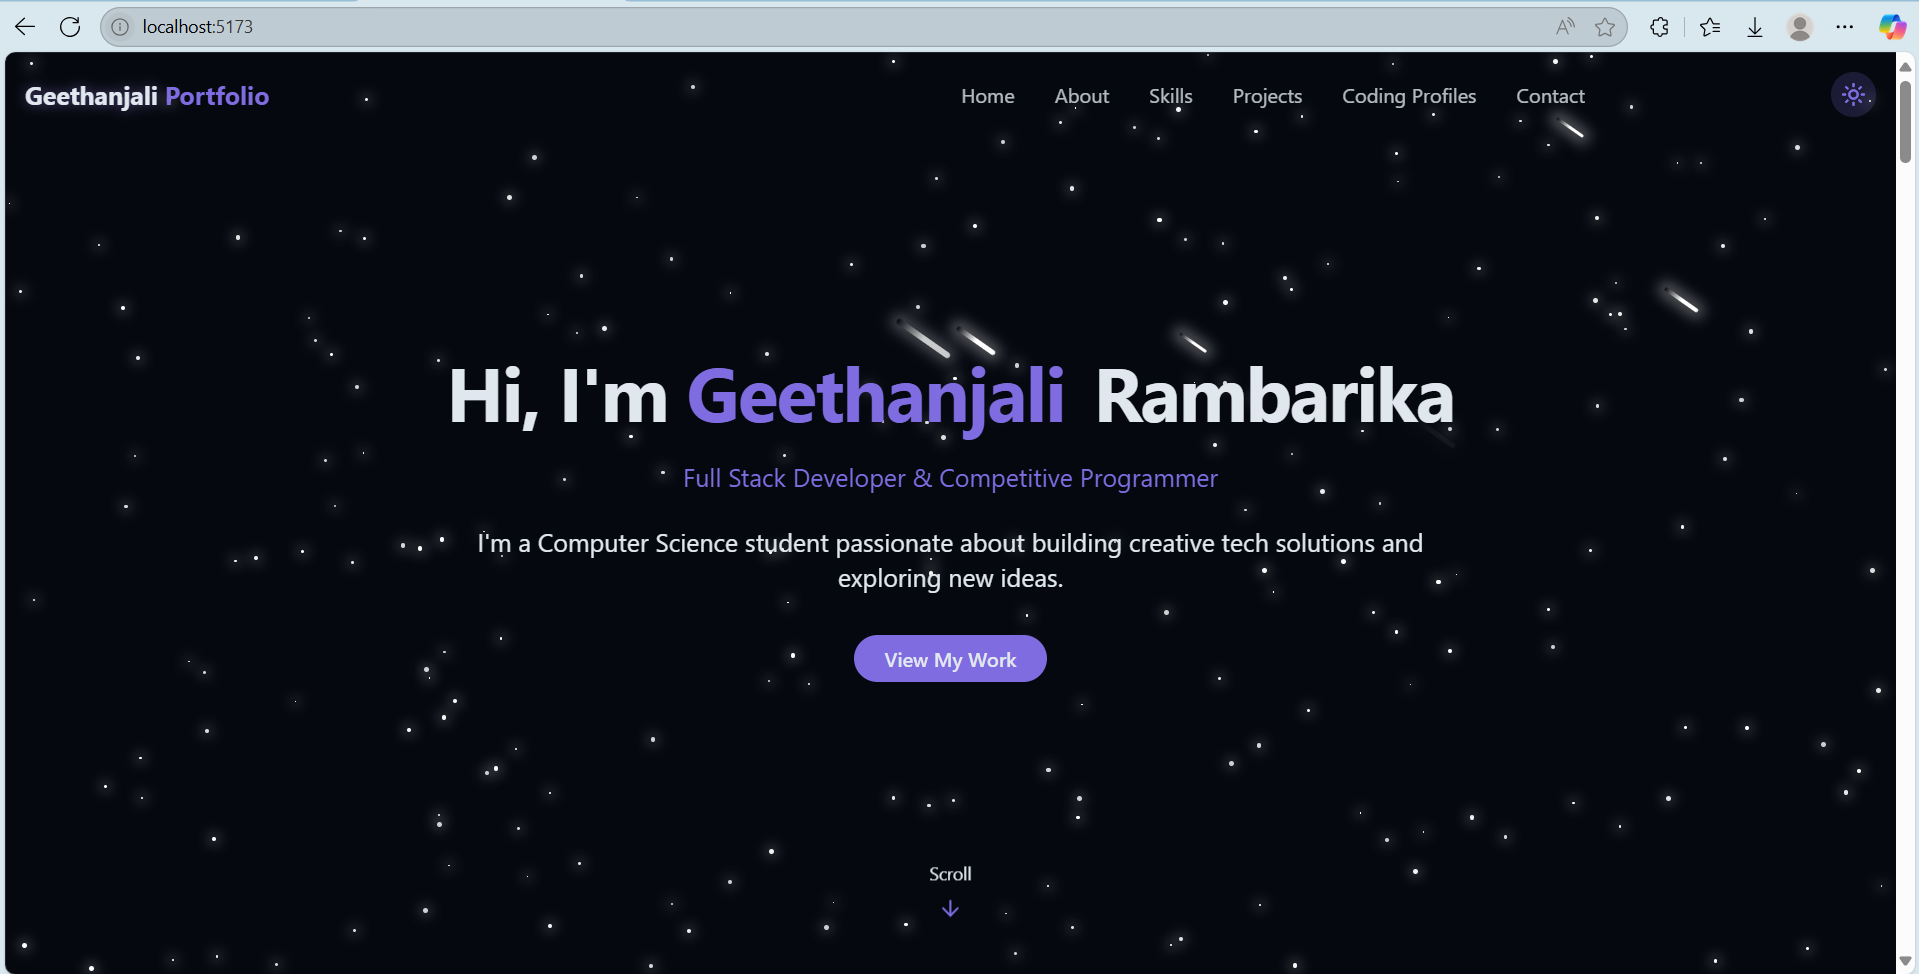
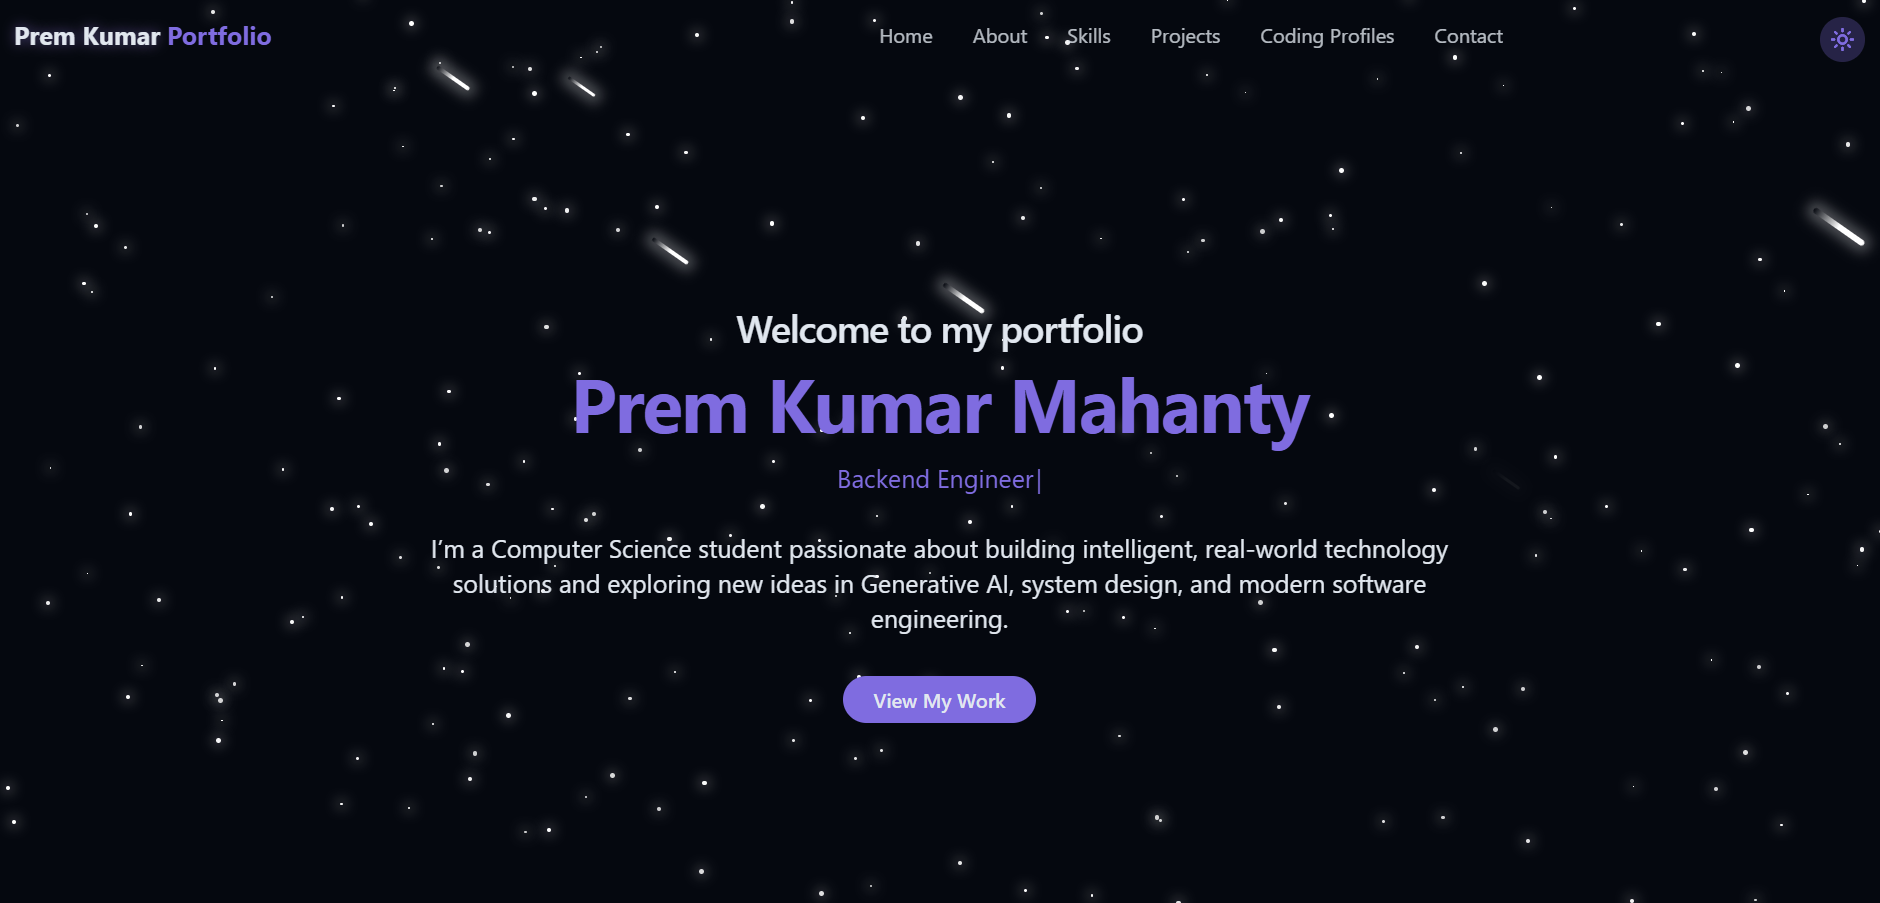
feat: introduce ProjectsSection component to display project details and add new project image assets.

diff --git a/src/components/ProjectsSection.jsx b/src/components/ProjectsSection.jsx
@@ -11,6 +11,22 @@ export const ProjectsSection = () => {
             image: "/winkchat.png"
         },
         {
+            title: "Compliance-Aware LLM Writing Verification Engine",
+            description: "A multi-stage retrieval and compliance pipeline that reduced hallucinated statements and improved writing quality with own user defined rules through reference validation, and hybrid RAG scoring.",
+
+techStack: [
+  "Python",
+  "Gemini AI",
+  "LangGraph",
+  "Streamlit",
+  "Google File Search API",
+  "Vector Database",
+  
+],            githubLink: "https://github.com/prem-cre/compilance",
+            demoLink: "https://prem-cre-compilance-app-f39dot.streamlit.app/",
+            image: "/touristcompass.png"
+        },
+        {
             title: "CoderBuddy(Lovable-clone-Minverse)",
             description: "CoderBuddy leverages Google Gemini AI and LangGraph's multi-agent architecture to transform text prompts into complete, working applications. Built with FastAPI and Next.js, it orchestrates specialized AI agents to plan, architect, and implement full-stack projects autonomously.",
             techStack: [
